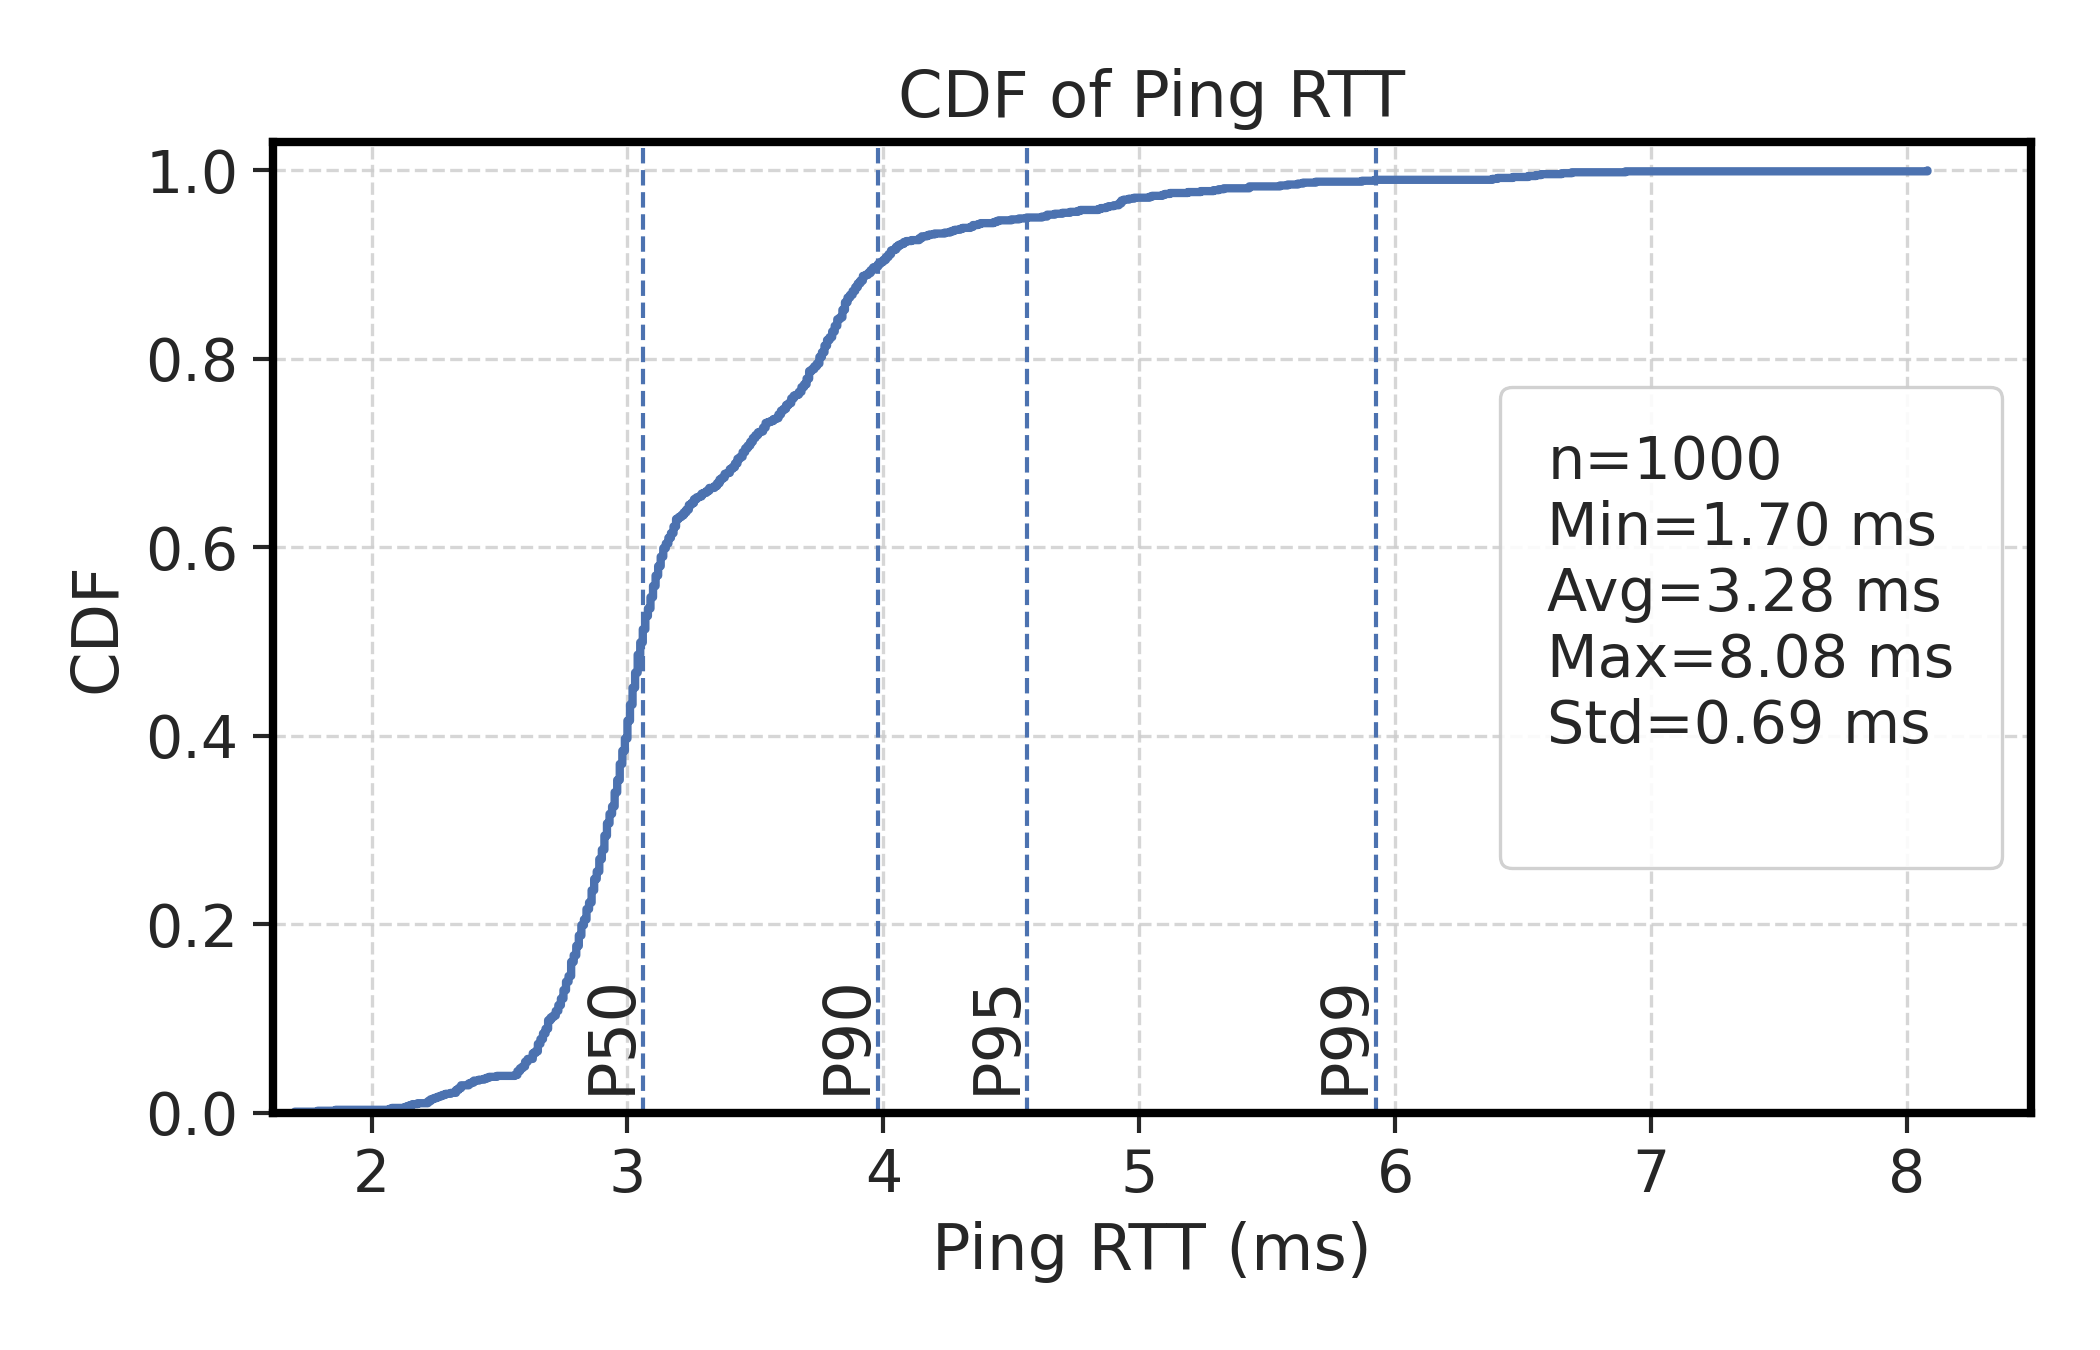
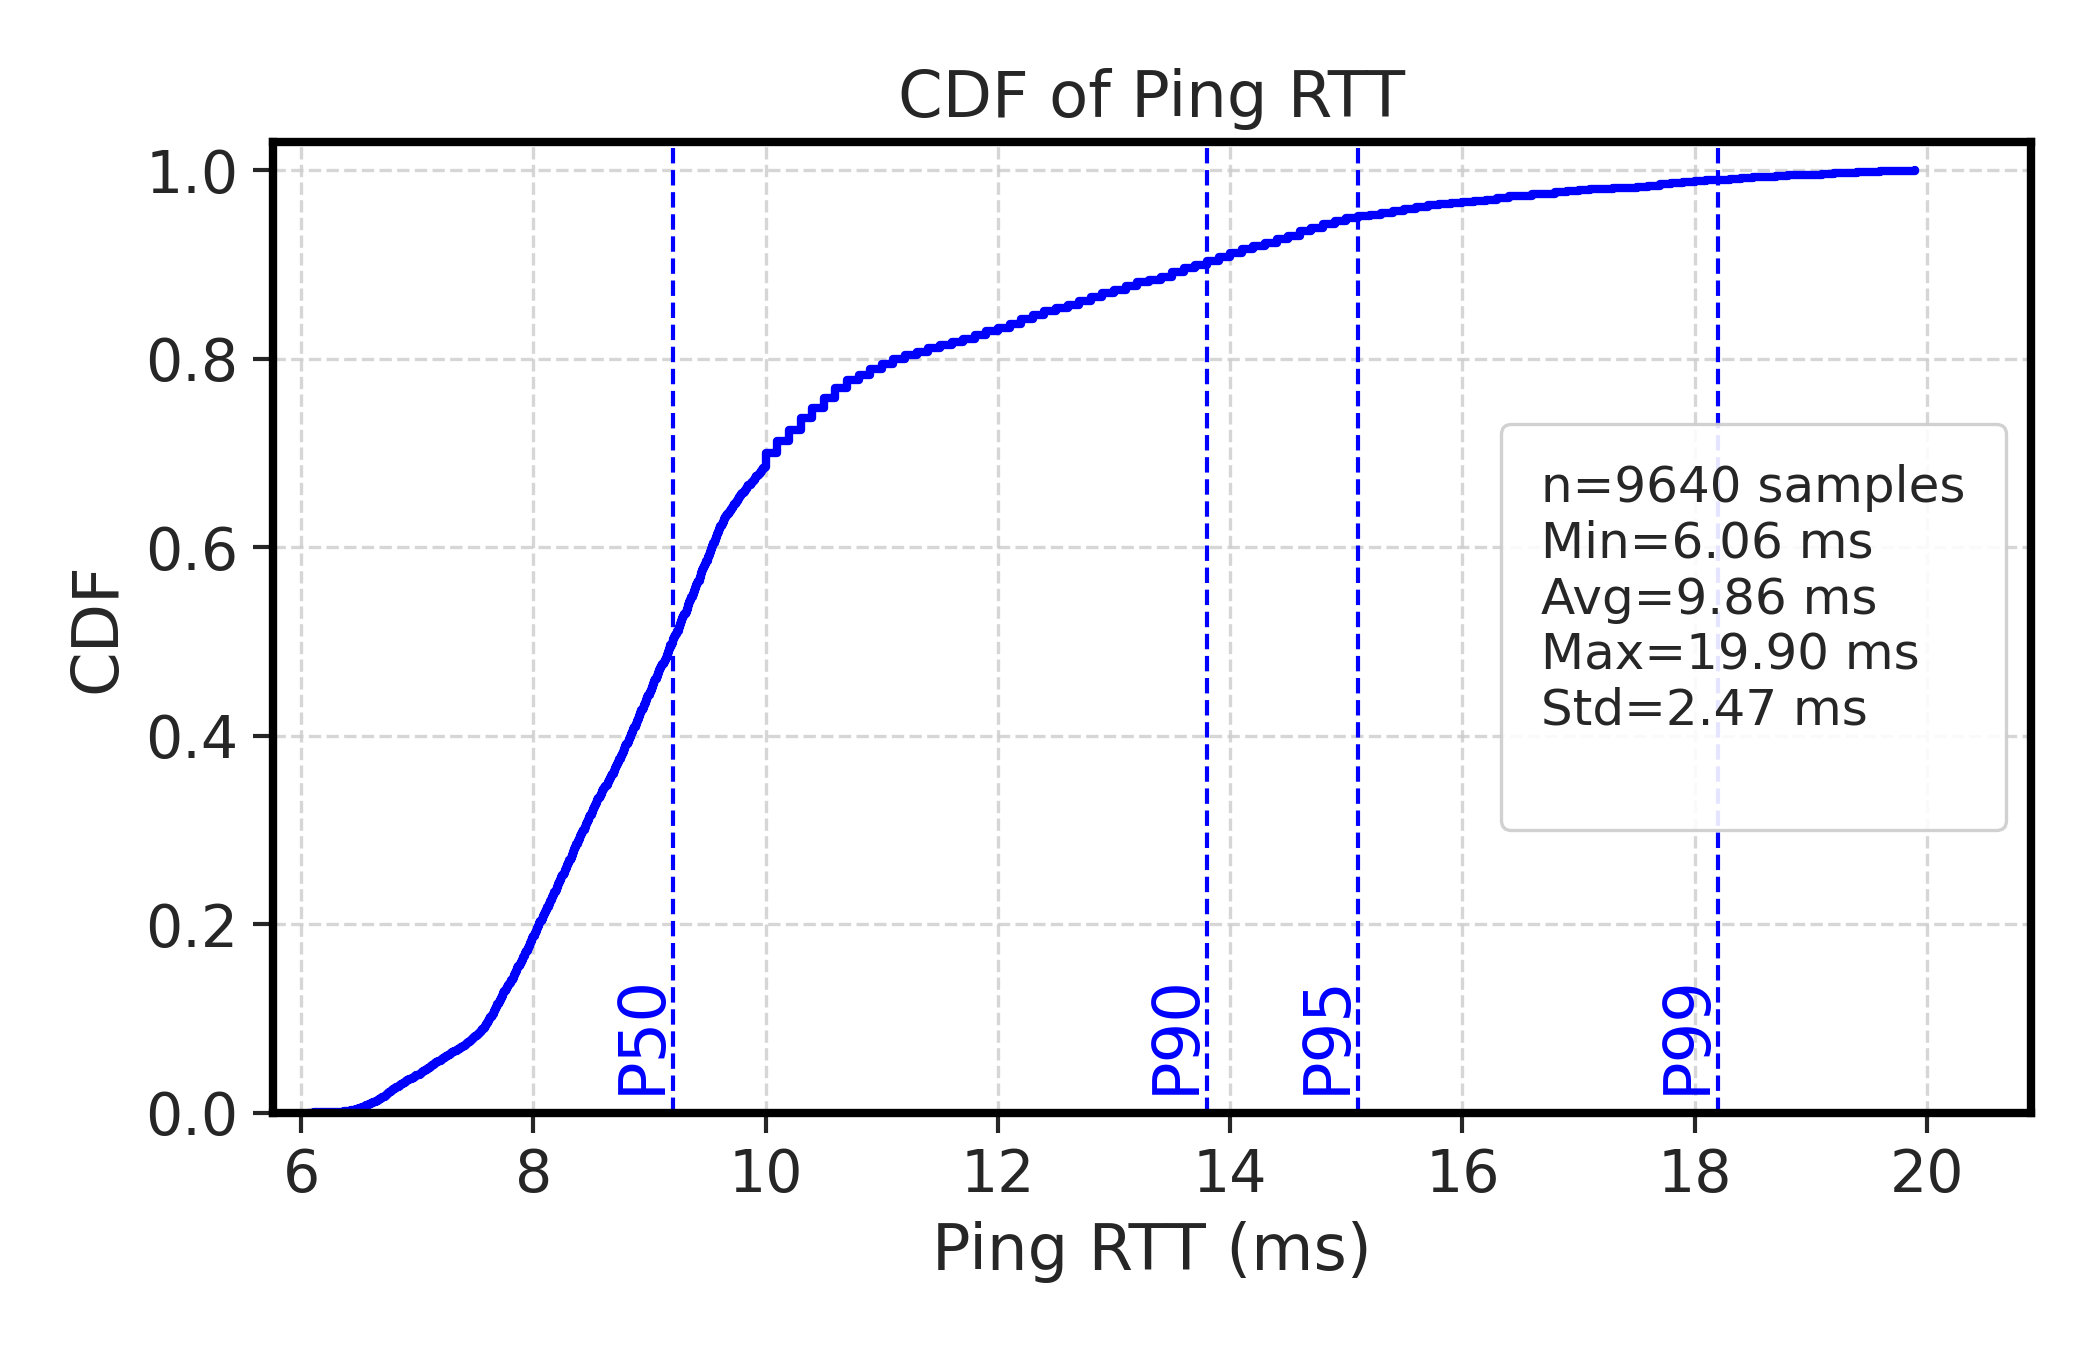
upd

diff --git a/fping/plot/plot_rtt_latency_fping.py b/fping/plot/plot_rtt_latency_fping.py
@@ -11,17 +11,21 @@ import matplotlib.pyplot as plt
 from matplotlib.lines import Line2D
 import seaborn as sns
 
-INFILE = Path("../data/test.csv")
+
+# INFILE = Path("../data/test.csv")
+INFILE = Path("../data/test1/robot_5g_c10000_p20.csv")
 OUTFILE = Path("./cdf_rtt_latency_fping.png")
 
 # Style per request
 sns.set_theme(context="paper", style="ticks", font_scale=1.6)
 
+COLOR = "#0000FF"
+
+# ✅ (4) Improved ECDF using unique values for efficiency
 def _ecdf(values):
-    # type: (np.ndarray) -> tuple
-    v = np.sort(values)
-    n = v.size
-    y = np.arange(1, n + 1, dtype=float) / n
+    v, counts = np.unique(np.sort(values), return_counts=True)
+    cum = np.cumsum(counts)
+    y = cum / cum[-1]
     return v, y
 
 def main():
@@ -54,33 +58,29 @@ def main():
 
     # Plot
     fig, ax = plt.subplots(figsize=(7, 4.5))
-    ax.step(x, y, where="post", linewidth=2)
+    ax.step(x, y, where="post", linewidth=2, color=COLOR)
 
     for val, label in [(p50, "P50"), (p90, "P90"), (p95, "P95"), (p99, "P99")]:
-        ax.axvline(val, linestyle="--", linewidth=1)
-        ax.text(val, 0.02, label, rotation=90, va="bottom", ha="right")
+        ax.axvline(val, linestyle="--", linewidth=1, color=COLOR)
+        ax.text(val, 0.02, label, rotation=90, va="bottom", ha="right", color=COLOR)
 
     ax.set_xlabel("Ping RTT (ms)")
     ax.set_ylabel("CDF")
-    # Add a bit of headroom at the top
     ax.set_ylim(0.0, 1.03)
-    ax.set_xlim(left=max(0.0, rtt_min * 0.95), right=rtt_max * 1.05)
+
+    # ✅ (5) Log x-axis if RTT range is large
+    if rtt_min > 0 and (rtt_max / rtt_min) > 50:
+        ax.set_xscale("log")
+        ax.set_xlabel("Ping RTT (ms, log scale)")
+        # avoid negative x-limit with log scale
+        ax.set_xlim(left=rtt_min * 0.95, right=rtt_max * 1.05)
+    else:
+        ax.set_xlim(left=max(0.0, rtt_min * 0.95), right=rtt_max * 1.05)
+
     ax.set_title("CDF of Ping RTT")
 
-    # Stats legend
-    # stats_text = (
-    #     f"n={n}\n"
-    #     f"min={rtt_min:.2f} avg={rtt_mean:.2f} max={rtt_max:.2f} std={rtt_std:.2f} ms\n"
-    #     f"P50={p50:.2f}  P90={p90:.2f}  P95={p95:.2f}  P99={p99:.2f} ms"
-    # )
-
-    # stats_text = (
-    #     f"n={n}\n"
-    #     f"P50={p50:.2f} ms\nP90={p90:.2f} ms\nP95={p95:.2f} ms\nP99={p99:.2f} ms"
-    # )
-
     stats_text = (
-        f"n={n}\n"
+        f"n={n} samples\n"
         f"Min={rtt_min:.2f} ms\nAvg={rtt_mean:.2f} ms\nMax={rtt_max:.2f} ms\nStd={rtt_std:.2f} ms\n"
     )
 
@@ -94,22 +94,17 @@ def main():
         borderpad=0.8,
         handlelength=0,
         handletextpad=0.0,
+        fontsize=12
     )
     ax.grid(True, which="major", axis="both", linestyle="--", alpha=0.8)
 
-
-    # Spines: dark + slightly thicker
     for side in ("top", "right", "bottom", "left"):
         ax.spines[side].set_color("black")
         ax.spines[side].set_linewidth(2)
 
-    # ax.spines["top"].set_visible(False)
-    # ax.spines["right"].set_visible(False)
-                                
     fig.tight_layout()
     fig.savefig(OUTFILE, dpi=300)
     print(f"[ok] Saved CDF plot → {OUTFILE}")
-    # Optional interactive view:
     plt.show()
 
 if __name__ == "__main__":

diff --git a/iperf3/plot/plot_udp_timeseries_iperf3.py b/iperf3/plot/plot_udp_timeseries_iperf3.py
@@ -15,7 +15,7 @@ import seaborn as sns
 INFILE = "robot_5g_ul280M_dl820M_bs1200.json"
 # INFILE = "robot_5g_ul260M_dl840M_bs1200.json"
 
-DATA_PATH = "../data"
+DATA_PATH = "../data/test1/"
 INFILE = Path(f"{DATA_PATH}/{INFILE}")
 
 OUTFILE = Path("./ue_ran_performance_udp_iperf3.png")
